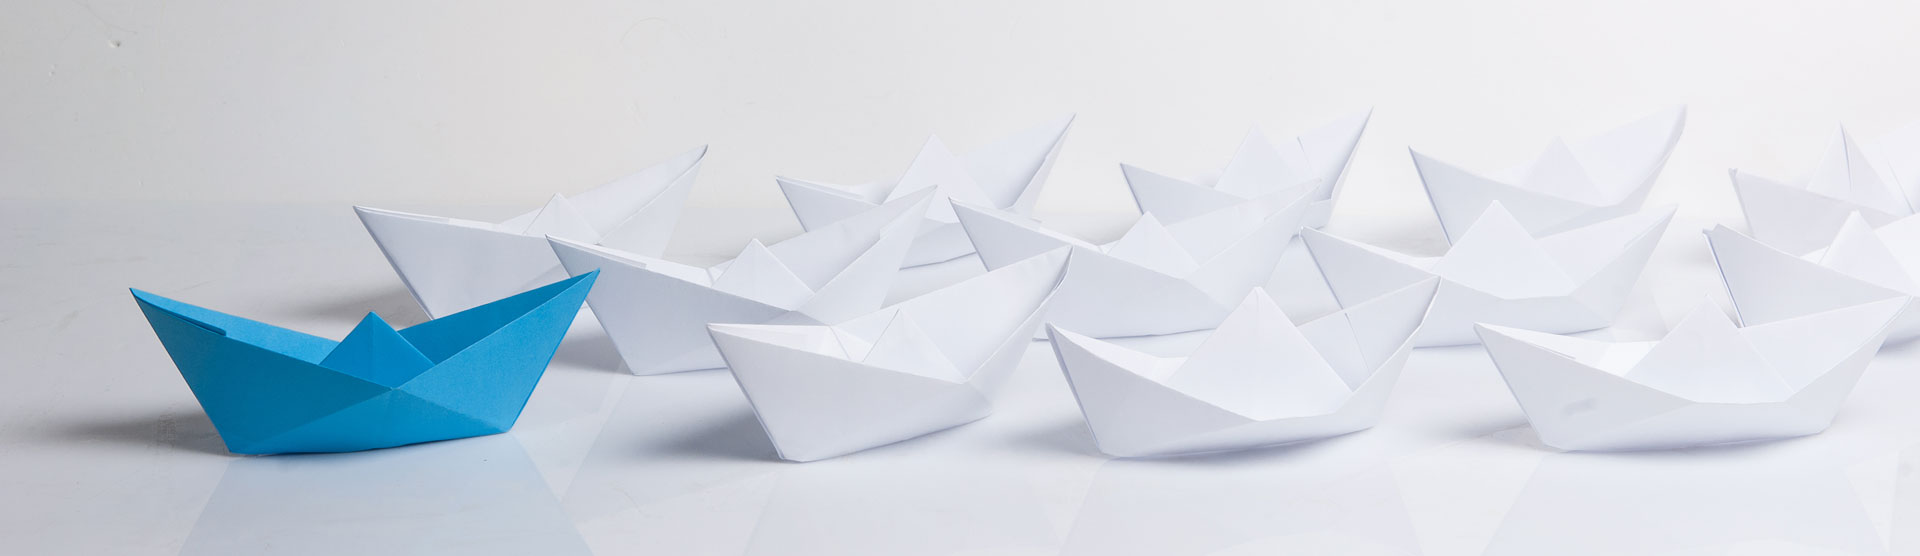
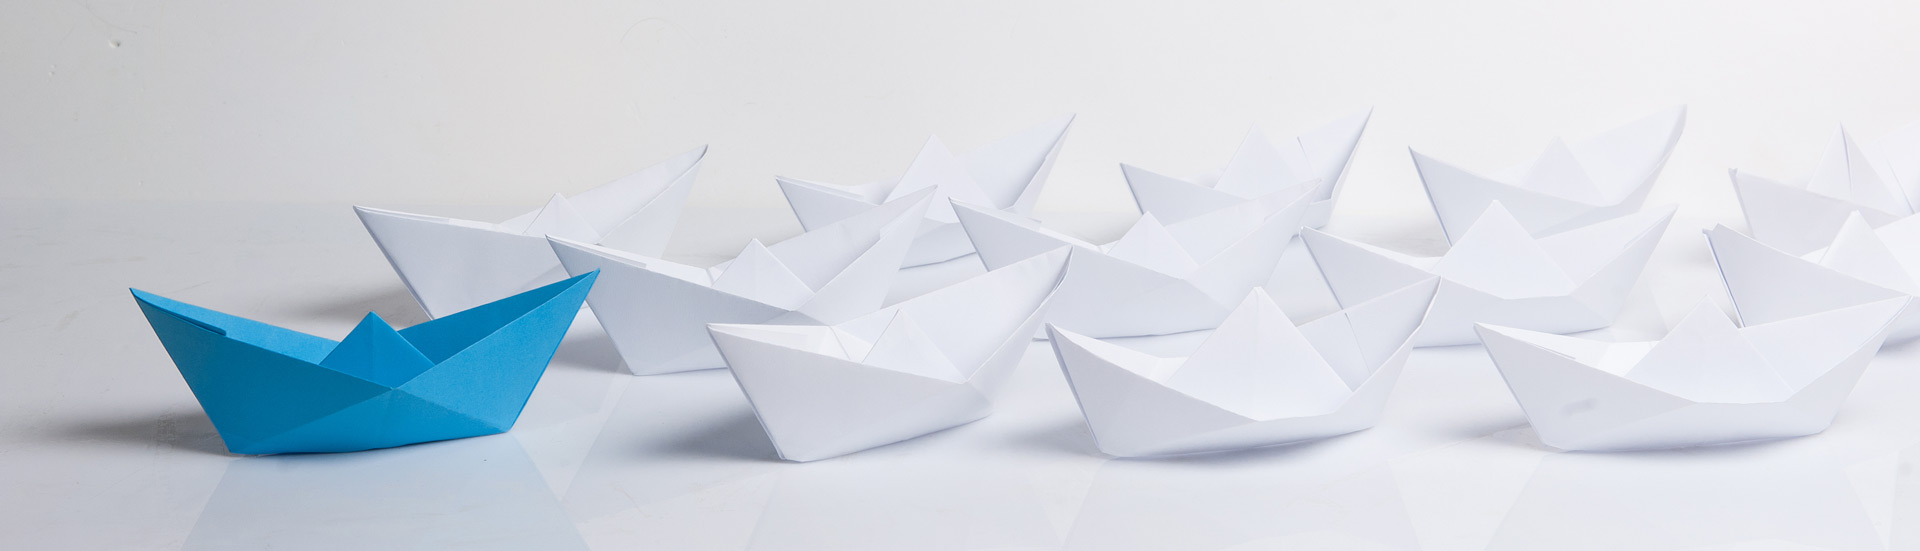
Fixed background image

diff --git a/assets/css/styles.css b/assets/css/styles.css
@@ -1,8 +1,11 @@
-.jumbotron {
-  height: 215px;
-  padding: 0;
-  margin: 110px 0 0 0;
-  background: url('../images/background.jpg') no-repeat 0 -200px;
+@media (min-width: 992px) {
+  .jumbotron {
+    height: 215px;
+    padding: 0;
+    margin: 110px 0 0 0;
+    background: url('../images/background.jpg') no-repeat 0 -110px;
+    background-size: cover;
+  }
 }
 
 .navbar-shadow {
@@ -20,11 +23,6 @@
 .navbar-inverse .navbar-form {
     background-color: #fff;
     border-color: transparent;
-}
-
-.navbar-inverse .navbar-brand,
-.navbar-inverse .navbar-nav>li>a {
-    color: #fff;
 }
 
 .navbar-inverse .navbar-nav>li>a:hover {
@@ -81,7 +79,6 @@ footer {
 .phone,
 .email {
   padding: 2px 0 2px 25px;
-  /*background-position: -50px -1000px;*/
 }
 
 .address:hover,
